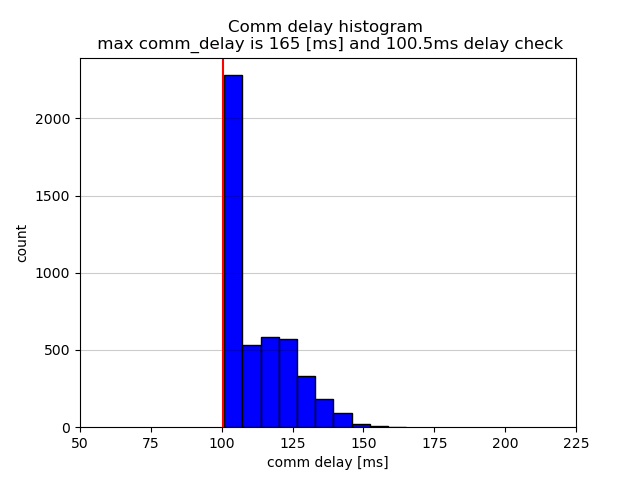
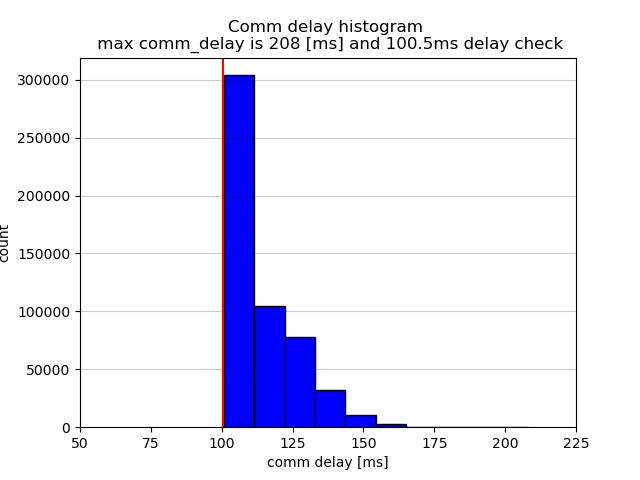
minor

diff --git a/mader/other/sim/comm_delay_histogram_percentile.py b/mader/other/sim/comm_delay_histogram_percentile.py
@@ -28,7 +28,7 @@ import numpy
 if __name__ == '__main__':
 
     # you wanna get histogram or know the value at q-th percentile
-    is_histogram = True
+    is_histogram = False
     # q-th percentile
     q = 75
 
@@ -45,10 +45,10 @@ if __name__ == '__main__':
         is_oldmader=True
 
         if cd == 50:
-            dc_list = [0, 160, 55, 51, 50.5, 50.1] #dc_list[0] will be used for old mader (which doesn't need delay check) so enter some value (default 0)
+            dc_list = [0, 190, 73, 57, 51] #dc_list[0] will be used for old mader (which doesn't need delay check) so enter some value (default 0)
             # dc_list = [0, 160] #dc_list[0] will be used for old mader (which doesn't need delay check) so enter some value (default 0)
         elif cd == 100:
-            dc_list = [0, 210, 105, 101, 100.5, 100.1] #dc_list[0] will be used for old mader (which doesn't need delay check) so enter some value (default 0)
+            dc_list = [0, 210, 120, 107, 101] #dc_list[0] will be used for old mader (which doesn't need delay check) so enter some value (default 0)
             # dc_list = [0, 210] #dc_list[0] will be used for old mader (which doesn't need delay check) so enter some value (default 0)
         elif cd == 200:
             dc_list = [0, 300]
@@ -90,7 +90,8 @@ if __name__ == '__main__':
 
             # print(rosbag)
 
-            for i in range(len(rosbag)):
+            # for i in range(len(rosbag)):
+            for i in range(10):
 
                 b = bagreader(rosbag[i], verbose=False);
                 
@@ -130,6 +131,7 @@ if __name__ == '__main__':
                 # plt.show()
             else:
                 # in case you wanna calculate the value of q-th percentile
+                print(source_bags)
                 print(str(q) + "-th percentile value is " + str(numpy.percentile(comm_delay_arr, q)))
                 if q > 0:
                     q = q -25

diff --git a/mader/scripts/run_many_sims_multi_agent.py b/mader/scripts/run_many_sims_multi_agent.py
@@ -56,10 +56,10 @@ if __name__ == '__main__':
         is_oldmader=True
 
         if cd == 50:
-            dc_list = [0, 160, 55, 51, 50.5, 50.1] #dc_list[0] will be used for old mader (which doesn't need delay check) so enter some value (default 0)
+            dc_list = [0, 190, 73, 57, 51] #dc_list[0] will be used for old mader (which doesn't need delay check) so enter some value (default 0)
             # dc_list = [0, 160] #dc_list[0] will be used for old mader (which doesn't need delay check) so enter some value (default 0)
         elif cd == 100:
-            dc_list = [0, 210, 105, 101, 100.5, 100.1] #dc_list[0] will be used for old mader (which doesn't need delay check) so enter some value (default 0)
+            dc_list = [0, 210, 120, 107, 101] #dc_list[0] will be used for old mader (which doesn't need delay check) so enter some value (default 0)
             # dc_list = [0, 210] #dc_list[0] will be used for old mader (which doesn't need delay check) so enter some value (default 0)
         elif cd == 200:
             dc_list = [0, 300]
@@ -209,7 +209,11 @@ if __name__ == '__main__':
             time.sleep(3.0)
 
 
-    # After the simulations 
+    # After the simulations
+    session_name="data"
+    os.system("tmux kill-session -t" + session_name)
+    os.system("tmux new-session -d -s "+str(session_name)+" -x 300 -y 300")
+    
     commands = []
     commands.append("sleep 3.0 && roscd mader && cd other/sim && python collision_check.py")
     commands.append("sleep 3.0 && roscd mader && cd other/sim && python completion_time.py")

diff --git a/mader/other/sim/ave_distance_csv2txt.py b/mader/other/sim/ave_distance_csv2txt.py
@@ -38,10 +38,10 @@ if __name__ == '__main__':
         is_oldmader=True
 
         if cd == 50:
-            dc_list = [0, 160, 55, 51, 50.5, 50.1] #dc_list[0] will be used for old mader (which doesn't need delay check) so enter some value (default 0)
+            dc_list = [0, 190, 73, 57, 51] #dc_list[0] will be used for old mader (which doesn't need delay check) so enter some value (default 0)
             # dc_list = [0, 160] #dc_list[0] will be used for old mader (which doesn't need delay check) so enter some value (default 0)
         elif cd == 100:
-            dc_list = [0, 210, 105, 101, 100.5, 100.1] #dc_list[0] will be used for old mader (which doesn't need delay check) so enter some value (default 0)
+            dc_list = [0, 210, 120, 107, 101] #dc_list[0] will be used for old mader (which doesn't need delay check) so enter some value (default 0)
             # dc_list = [0, 210] #dc_list[0] will be used for old mader (which doesn't need delay check) so enter some value (default 0)
         elif cd == 200:
             dc_list = [0, 300]

diff --git a/mader/other/sim/collision_check.py b/mader/other/sim/collision_check.py
@@ -37,10 +37,10 @@ if __name__ == '__main__':
         is_oldmader=True
 
         if cd == 50:
-            dc_list = [0, 160, 55, 51, 50.5, 50.1] #dc_list[0] will be used for old mader (which doesn't need delay check) so enter some value (default 0)
+            dc_list = [0, 190, 73, 57, 51] #dc_list[0] will be used for old mader (which doesn't need delay check) so enter some value (default 0)
             # dc_list = [0, 160] #dc_list[0] will be used for old mader (which doesn't need delay check) so enter some value (default 0)
         elif cd == 100:
-            dc_list = [0, 210, 105, 101, 100.5, 100.1] #dc_list[0] will be used for old mader (which doesn't need delay check) so enter some value (default 0)
+            dc_list = [0, 210, 120, 107, 101] #dc_list[0] will be used for old mader (which doesn't need delay check) so enter some value (default 0)
             # dc_list = [0, 210] #dc_list[0] will be used for old mader (which doesn't need delay check) so enter some value (default 0)
         elif cd == 200:
             dc_list = [0, 300]

diff --git a/mader/other/sim/completion_time.py b/mader/other/sim/completion_time.py
@@ -36,10 +36,10 @@ if __name__ == '__main__':
         is_oldmader=True
 
         if cd == 50:
-            dc_list = [0, 160, 55, 51, 50.5, 50.1] #dc_list[0] will be used for old mader (which doesn't need delay check) so enter some value (default 0)
+            dc_list = [0, 190, 73, 57, 51] #dc_list[0] will be used for old mader (which doesn't need delay check) so enter some value (default 0)
             # dc_list = [0, 160] #dc_list[0] will be used for old mader (which doesn't need delay check) so enter some value (default 0)
         elif cd == 100:
-            dc_list = [0, 210, 105, 101, 100.5, 100.1] #dc_list[0] will be used for old mader (which doesn't need delay check) so enter some value (default 0)
+            dc_list = [0, 210, 120, 107, 101] #dc_list[0] will be used for old mader (which doesn't need delay check) so enter some value (default 0)
             # dc_list = [0, 210] #dc_list[0] will be used for old mader (which doesn't need delay check) so enter some value (default 0)
         elif cd == 200:
             dc_list = [0, 300]

diff --git a/mader/other/sim/missed_msgs_count.py b/mader/other/sim/missed_msgs_count.py
@@ -41,10 +41,10 @@ if __name__ == '__main__':
         is_oldmader=True
 
         if cd == 50:
-            dc_list = [0, 160, 55, 51, 50.5, 50.1] #dc_list[0] will be used for old mader (which doesn't need delay check) so enter some value (default 0)
+            dc_list = [0, 190, 73, 57, 51] #dc_list[0] will be used for old mader (which doesn't need delay check) so enter some value (default 0)
             # dc_list = [0, 160] #dc_list[0] will be used for old mader (which doesn't need delay check) so enter some value (default 0)
         elif cd == 100:
-            dc_list = [0, 210, 105, 101, 100.5, 100.1] #dc_list[0] will be used for old mader (which doesn't need delay check) so enter some value (default 0)
+            dc_list = [0, 210, 120, 107, 101] #dc_list[0] will be used for old mader (which doesn't need delay check) so enter some value (default 0)
             # dc_list = [0, 210] #dc_list[0] will be used for old mader (which doesn't need delay check) so enter some value (default 0)
         elif cd == 200:
             dc_list = [0, 300]

diff --git a/mader/scripts/collision_detector.py b/mader/scripts/collision_detector.py
@@ -82,7 +82,7 @@ class CollisionDetector:
                     # trans = self.get_transformation(agent1, agent2)
                     # if trans is not None:
 
-                    print("here")
+                    # print("here")
 
                     if (abs(self.state_pos[i-1,0] - self.state_pos[j-1,0]) < self.bbox_x 
                         and abs(self.state_pos[i-1,1] - self.state_pos[j-1,1]) < self.bbox_y 
